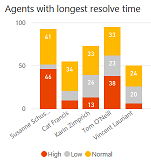
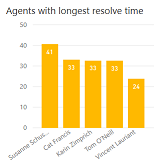
cleanup and consistency pass

diff --git a/ai-docs/customer-service-insights/dashboard-incoming-cases.md b/ai-docs/customer-service-insights/dashboard-incoming-cases.md
@@ -17,7 +17,7 @@ manager: shellyha
 > [!div class="mx-imgBorder"]
 > ![New cases dashboard](media/ai-csi-new-cases-dash.PNG)
 
-The New cases dashboard gives you an overview of the new cases in your customer service system. It uses artificial intelligence (AI) technology to help you identify emerging issues.
+The New cases dashboard gives you an overview of the new cases in your customer service system. It uses artificial intelligence (AI) technology to help you identify popular and emerging issues.
 
 The New cases dashboard includes a variety of charts with graphical views of your system's new support cases. For information about each chart, click the link for the chart in the following list or scroll to locate the chart later in this topic.
 
@@ -27,7 +27,7 @@ The New cases dashboard includes a variety of charts with graphical views of you
 * [Popular topics (AI Insights)](#current-popular-topics-chart)
 * [Emerging topics (AI Insights)](#emerging-topics-chart)
 
-The Popular topics and Emerging topics charts use natural language understanding artificial intelligence technology to group support cases as *topics* that are a collection of related cases. These charts show you the new customer support topics that are generating the most case volume and the topics that are showing the biggest change in volume. This can help you identify emerging issues in your system.
+The Popular topics and Emerging topics charts use natural language understanding to group support cases as *topics* that are a collection of related cases. These charts show you the new customer support topics that are generating the most case volume and the topics that are showing the biggest change in volume. This can help you identify emerging issues in your system.
 
 By default, the dashboard shows you key performance indicators for the past month, and for all products, channels, business units, and teams in your system. To change the time period, select a value from the **Time period** drop-down list at the top of the dashboard. You can select either past day, past week, or past month.
 
@@ -77,13 +77,13 @@ Description | Details
 ----------- | -------
 Topic | Artificial intelligence clustering of cases based on language understanding applied to case titles
 Volume | The new cases associated with this topic divided by total new cases
-Number of cases | The new cases associated with this topic
+New cases | The new cases associated with this topic
 Volume change | The incoming volume of cases associated with this topic in the current period minus the incoming volume of cases associated with this topic in the previous period
-Average resolve time | The average resolution time of resolved new cases associated with this topic
-Resolve rate | The resolved new cases associated with this topic divided by the total new cases associated with this topic
+Average resolution time | The average resolution time of resolved new cases associated with this topic
+Resolution rate | The resolved new cases associated with this topic divided by the total new cases associated with this topic
 Average CSAT  | The sum of CSAT scores associated with this topic divided by the count of resolved cases associated with this topic that have CSAT values
 
-To see additional information about each topic, right-click the topic name, hover over **Drillthrough**, and then select **Topic Drill Through** to display the Topic details dashboard. For more information, see [Topic details dashboard](dashboard-topic-details.md).
+To see additional information about each topic, right-click the topic name, hover over **Drillthrough**, and then select **Topic drillthrough** to display the Topic details dashboard. For more information, see [Topic details dashboard](dashboard-topic-details.md).
 
 ## Emerging topics chart
 
@@ -96,10 +96,10 @@ Description | Details
 ----------- | -------
 Topic | Artificial intelligence clustering of cases based on language understanding applied to case titles
 Volume | The percent change in volume over the specified time period
-Number of cases | The new cases associated with this topic
+New cases | The new cases associated with this topic
 Volume change | The incoming volume of cases associated with this topic in the current period minus the incoming volume of cases associated with this topic in the previous period
-Average resolve time | The average resolution time of resolved new cases associated with this topic
-Resolve rate | The resolved new cases associated with this topic divided by the total new cases associated with this topic
+Average resolution time | The average resolution time of resolved new cases associated with this topic
+Resolution rate | The resolved new cases associated with this topic divided by the total new cases associated with this topic
 Average CSAT  | The sum of CSAT scores associated with this topic divided by the count of resolved cases associated with this topic that have CSAT values
 
 To see additional information about each topic, right-click the topic name, hover over **Drillthrough**, and then select **Topic drillthrough** to display the Topic details dashboard. For more information, see [Topic details dashboard](dashboard-topic-details.md).

diff --git a/ai-docs/customer-service-insights/dashboard-topic-details.md b/ai-docs/customer-service-insights/dashboard-topic-details.md
@@ -29,13 +29,13 @@ The Topic details dashboard includes a variety of charts with graphical views of
 * [Topic details KPI charts](#topic-details-kpi-charts)
 * [Overall impact charts](#overall-impact-charts)
 * [Agents with most unresolved cases](#agents-with-most-unresolved-cases-chart)
-* [Agents with longest average resolve time](#agents-with-longest-average-resolve-time-chart)
+* [Agents with longest resolve time](#agents-with-longest-average-resolve-time-chart)
 * [Agents with lowest average CSAT](#agents-with-lowest-average-csat-chart)
 * [Topic case composition](#topic-case-composition-chart)
-* [Top CSAT impactors (AI Insights)](#top-csat-impactors-chart)
-* [Top resolve time impactors (AI Insights)](#top-resolve-time-impactors-chart)
+* [Customer satisfaction drivers (AI Insights)](#top-csat-impactors-chart)
+* [Resolution time drivers (AI Insights)](#top-resolve-time-impactors-chart)
 
-The Top CSAT impactors and Top resolve time impactors charts use natural language understanding artificial intelligence technology to group support cases as *topics* that are a collection of related cases. These charts show you the impact the topic's cases have had on customer satisfaction and resolution time, and the channels associated with the topic that are having the greatest impact on customer satisfaction and resolution time. This can help you identify areas for improvement that can have the greatest impact.
+The Customer satisfaction drivers and Resolution time drivers charts use natural language understanding to group support cases as *topics* that are a collection of related cases. These charts show you the impact the topic's cases have had on customer satisfaction and resolution time, and the channels associated with the topic that are having the greatest impact on customer satisfaction and resolution time. This can help you identify areas for improvement that can have the greatest impact.
 
 By default, the dashboard shows you key performance indicators for the last month, and for all products, channels, business units, and teams in your system. To change the time period, select a value from the **Time period** drop-down list at the top of the dashboard. You can select either last day, last week, or last month.
 
@@ -83,9 +83,9 @@ Agents with most unresolved cases | Number of unresolved cases in descending ord
 ## Agents with longest average resolve time chart
 
 > [!div class="mx-imgBorder"]
-> ![Agents with longest average resolve time chart](media/ai-csi-agents-resolve-time.PNG)
+> ![Agents with longest resolve time chart](media/ai-csi-agents-resolve-time.PNG)
 
-The Agents with longest average resolve time chart shows the average resolution time for each agent for the topic's support cases in the specified time period.
+The Agents with longest resolve time chart shows the average resolution time for each agent for the topic's support cases in the specified time period.
 
 Description | Details
 ----------- | -------
@@ -113,12 +113,12 @@ Description | Details
 ----------- | -------
 Topic case composition | Sankey diagram showing the flow of support cases by support channel
 
-## Top CSAT impactors chart
+## Customer satisfaction drivers chart
 
 > [!div class="mx-imgBorder"]
 > ![Top CSAT impactors chart](media/ai-csi-top-csat-impactors.PNG)
 
-The Top CSAT impactors chart uses artificial intelligence technology to show the top customer satisfaction impactors for the topic during the specified time period by support channel and product.
+The Customer satisfaction drivers chart uses artificial intelligence technology to show the top customer satisfaction impactors for the topic during the specified time period by support channel and product.
 
 Description | Details
 ----------- | -------
@@ -130,12 +130,12 @@ Impact | 1 – (Average CSAT score not including support cases for the specified
 
 The chart displays the impact as a red or blue bar. The midpoint is the overall average customer satisfaction score (CSAT). A red bar indicates that the CSAT score is lower than the average CSAT score. A blue bar indicates that the CSAT score is higher. Improving customer satisfaction for the top CSAT impactors topics in red will have the greatest impact on improving overall customer satisfaction.
 
-## Top resolve time impactors chart
+## Resolution time drivers chart
 
 > [!div class="mx-imgBorder"]
 > ![Top resolve time impactors chart](media/ai-csi-top-resolve-time-impactors.PNG)
 
-The Top resolve time impactors chart uses artificial intelligence technology to show the top resolution time impactors for the topic during the specified time period by support channel and product.
+The Resolution time drivers chart uses artificial intelligence technology to show the top resolution time impactors for the topic during the specified time period by support channel and product.
 
 Description | Details
 ----------- | -------

diff --git a/ai-docs/customer-service-insights/dashboard-kpi-summary.md b/ai-docs/customer-service-insights/dashboard-kpi-summary.md
@@ -17,7 +17,7 @@ manager: shellyha
 > [!div class="mx-imgBorder"]
 > ![KPI summary dashboard](media/ai-csi-kpi-summary-dash.PNG)
 
-The KPI (key performance indicator) summary dashboard gives you a broad overview of the customer service experience at your organization. It uses artificial intelligence (AI) technology to show you topics that are having the greatest impact on case volume and resolution time.
+The KPI (key performance indicator) summary dashboard gives you a broad overview of the customer service experience at your organization. It uses artificial intelligence (AI) technology to show you topics that are generating the highest volume and emerging topics with the highest rate of change in volume.
 
 The KPI summary dashboard includes a variety of charts with graphical views of your system's key performance indicators. For information about each chart, click the link for the chart in the following list or scroll to locate the chart later in this topic.
 
@@ -30,7 +30,7 @@ The KPI summary dashboard includes a variety of charts with graphical views of y
 * [Case volume drivers (AI Insights)](#case-volume-drivers-chart)
 * [Emerging topics (AI Insights)](#emerging-topics-chart)
 
-The Case volume drivers and Top resolve time impactors charts use natural language understanding artificial intelligence technology to group support cases as *topics* that are a collection of related cases. These charts show you the customer support topics that are generating the most volume and the topics that are having the most impact on case resolution time, helping you identify areas for improvement that can have the greatest impact on system performance.
+The Case volume drivers and Emerging topics charts use natural language understanding to group support cases as *topics* that are a collection of related cases. These charts show you the customer support topics that are generating the most volume and emerging topics with the highest rate of change in volume, helping you identify areas for improvement that can have the greatest impact on system performance.
 
 By default, the dashboard shows you key performance indicators for the past month and for all products, channels, business units, and teams in your system. To change the time period, select a value from the **Time period** drop-down list at the top of the dashboard. You can select either past day, past week, or past month.
 
@@ -54,17 +54,6 @@ Average CSAT | The sum of customer satisfaction (CSAT) scores divided by the cou
 
 A blue up-and-down indicator next to the value indicates the percent change in a positive direction. A red indicator indicates the percent change in a negative direction.
 
-## Case priority chart
-
-> [!div class="mx-imgBorder"]
-> ![Case priority chart](media/ai-csi-case-priority.PNG)
-
-The Case priority chart shows the percentage breakdown for the specified time period between high, normal, and low-priority support cases.
-
-Description | Details
------------ | -------
-Case priority | Case breakdown by case priority
-
 ## Case breakdown chart
 
 > [!div class="mx-imgBorder"]
@@ -75,6 +64,17 @@ The Case breakdown chart shows the breakdown in support cases for the specified 
 Description | Details
 ----------- | -------
 Case breakdown | Case breakdown by rollover cases (backlog) plus new cases for the specified time period
+
+## Case priority chart
+
+> [!div class="mx-imgBorder"]
+> ![Case priority chart](media/ai-csi-case-priority.PNG)
+
+The Case priority chart shows the percentage breakdown for the specified time period between high, normal, and low-priority support cases.
+
+Description | Details
+----------- | -------
+Case priority | Case breakdown by case priority
 
 ## Case channel chart
 

diff --git a/ai-docs/customer-service-insights/dashboard-case-resolutions.md b/ai-docs/customer-service-insights/dashboard-case-resolutions.md
@@ -27,7 +27,7 @@ The Resolutions dashboard includes a variety of charts with graphical views of y
 * [New escalations versus resolved escalations](#new-escalations-versus-resolved-escalations-chart)
 * [Resolution time drivers (AI Insights)](#resolution-time-drivers-chart)
 
-The Resolution time drivers chart uses artificial intelligence technology to group support cases as *topics* that are a collection of related cases. This chart shows you the customer support topics that are having the most impact on case resolution time, helping you identify areas for improvement that can have the greatest impact on system performance.
+The Resolution time drivers chart uses natural language understanding to group support cases as *topics* that are a collection of related cases. This chart shows you the customer support topics that are having the most impact on case resolution time, helping you identify areas for improvement that can have the greatest impact on system performance.
 
 By default, the dashboard shows you key performance indicators for the last month, and for all products, channels, business units, and teams in your system. To change the time period, select a value from the **Time period** drop-down list at the top of the dashboard. You can select either last day, last week, or last month.
 
@@ -38,11 +38,11 @@ To filter data by product, channel, business unit, or team, select a value from 
 > [!div class="mx-imgBorder"]
 > ![Agents with longest resolve time chart](media/ai-csi-longest-resolve-time.PNG)
 
-The Agents with longest resolve time chart shows the average time, in minutes, that it takes each agent in the specified time period to resolve a customer-support case, in reverse order of resolution time, and the breakdown by priority.
+The Agents with longest resolve time chart shows the average time, in minutes, that it takes each agent in the specified time period to resolve a customer-support case, in reverse order of resolution time.
 
 Description | Details
 ----------- | -------
-Agents with longest resolve time | Resolved case resolution time breakdown by agent and case priority
+Agents with longest resolve time | Resolved case resolution time breakdown by agent
 
 ## New cases versus average resolution time chart
 

diff --git a/ai-docs/customer-service-insights/dashboard-CSAT.md b/ai-docs/customer-service-insights/dashboard-CSAT.md
@@ -27,7 +27,7 @@ The Customer satisfaction dashboard includes a variety of charts with graphical 
 * [Customer satisfaction breakdown](#customer-satisfaction-breakdown)
 * [Customer satisfaction drivers (AI Insights)](#customer-satisfaction-drivers-chart)
 
-The Customer satisfaction drivers chart uses natural language understanding artificial intelligence technology to group support cases as *topics* that are a collection of related cases. This chart shows you the customer support topics that are having the most impact on customer satisfaction, helping you identify areas to focus on that will make the greatest impact on improving the customer's experience.
+The Customer satisfaction drivers chart uses natural language understanding to group support cases as *topics* that are a collection of related cases. This chart shows you the customer support topics that are having the most impact on customer satisfaction, helping you identify areas to focus on that will make the greatest impact on improving the customer's experience.
 
 By default, the dashboard shows you key performance indicators for the past month and for all products, channels, business units, and teams in your system. To change the time period, select a value from the **Time Period** drop-down list at the top of the dashboard. You can select past day, past week, or past month.
 

diff --git a/ai-docs/customer-service-insights/TOC.md b/ai-docs/customer-service-insights/TOC.md
@@ -22,9 +22,9 @@
 
 ### [New cases](dashboard-incoming-cases.md)
 
-### [Case resolution](dashboard-case-resolutions.md)
-
 ### [Customer satisfaction](dashboard-CSAT.md)
+
+### [Resolutions](dashboard-case-resolutions.md)
 
 ### [Topic details](dashboard-topic-details.md)
 
